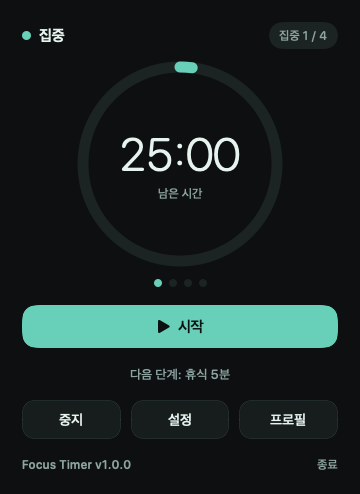
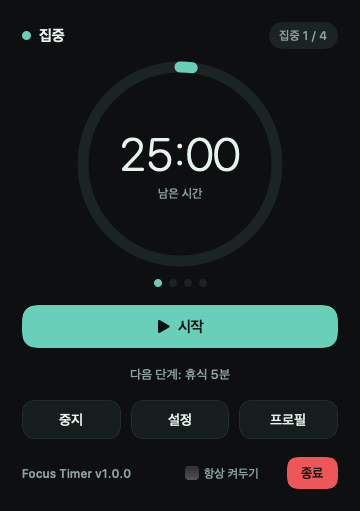
docs: redraw architecture diagram and refresh README
The state diagram had arrows ending in empty space, crossing boxes and
overshooting targets, and still described MenuBarExtra and "재설정".
Redraw it from the current code, document the always-on-top mode and
quit button in the README, embed the diagram, and regenerate the timer
panel screenshot.

diff --git a/README.md b/README.md
@@ -14,7 +14,9 @@
 타이머 패널
   ├─ 시작 / 일시정지 / 중지
   ├─ 설정 패널
-  └─ 프로필 패널
+  ├─ 프로필 패널
+  ├─ 항상 켜두기 (창을 다른 창 위에 고정)
+  └─ 종료
 ```
 
 ## 1. 타이머 패널
@@ -28,6 +30,8 @@
 - **시작**을 누르면 타이머가 진행되고, 진행 중에는 **일시정지**로 바뀝니다.
 - **중지**는 현재 계획의 첫 집중 시간으로 되돌립니다.
 - 마지막 집중이 끝나면 마지막 휴식 없이 완료됩니다.
+- 하단의 **항상 켜두기**를 체크하면 지금 열려 있는 창이 그대로 다른 창 위에 고정됩니다. 다른 곳을 클릭해도 닫히지 않으며, 창 배경을 끌어 원하는 위치로 옮길 수 있습니다. 체크를 해제하면 다시 바깥을 클릭할 때 닫힙니다.
+- 오른쪽 아래 **종료** 버튼은 앱을 종료합니다. 실수로 누르지 않도록 체크박스와 간격을 두었습니다.
 
 ## 2. 설정 패널
 
@@ -74,6 +78,14 @@
 - 프로필에는 타이머 조합만 저장합니다. 소리·macOS 알림은 모든 프로필에 공통인 전역 설정입니다.
 - 삭제는 프로필 패널 안의 확인 영역에서 처리합니다.
 
+## 구조와 상태 흐름
+
+![Focus Timer 구성과 상태 전이](docs/assets/260930-0751-구조및상태흐름.svg)
+
+- 메뉴 막대 아이콘과 창은 `MenuBarController`(`NSStatusItem` + `NSPanel`)가 직접 관리합니다. SwiftUI `MenuBarExtra`는 바깥을 클릭하면 창을 강제로 닫아 **항상 켜두기**를 구현할 수 없기 때문입니다.
+- `PomodoroStore`가 1초마다 남은 시간을 갱신하고, 상태 전이는 `FocusTimerCore`의 `PomodoroState`가 계산합니다.
+- 설정과 프로필은 `UserDefaults`에 저장되며, 네트워크·계정·분석 수집은 사용하지 않습니다.
+
 ## 빌드와 설치
 
 ```bash
@@ -105,6 +117,7 @@ bash TDDTests/install-overwrite.sh
 bash TDDTests/menu-panel-navigation.sh
 bash TDDTests/transition-sound.sh
 bash TDDTests/custom-menu-ui-style.sh
+bash TDDTests/always-on-top.sh
 bash TDDTests/readme-snapshot.sh
 bash TDDTests/app-version.sh
 ```
